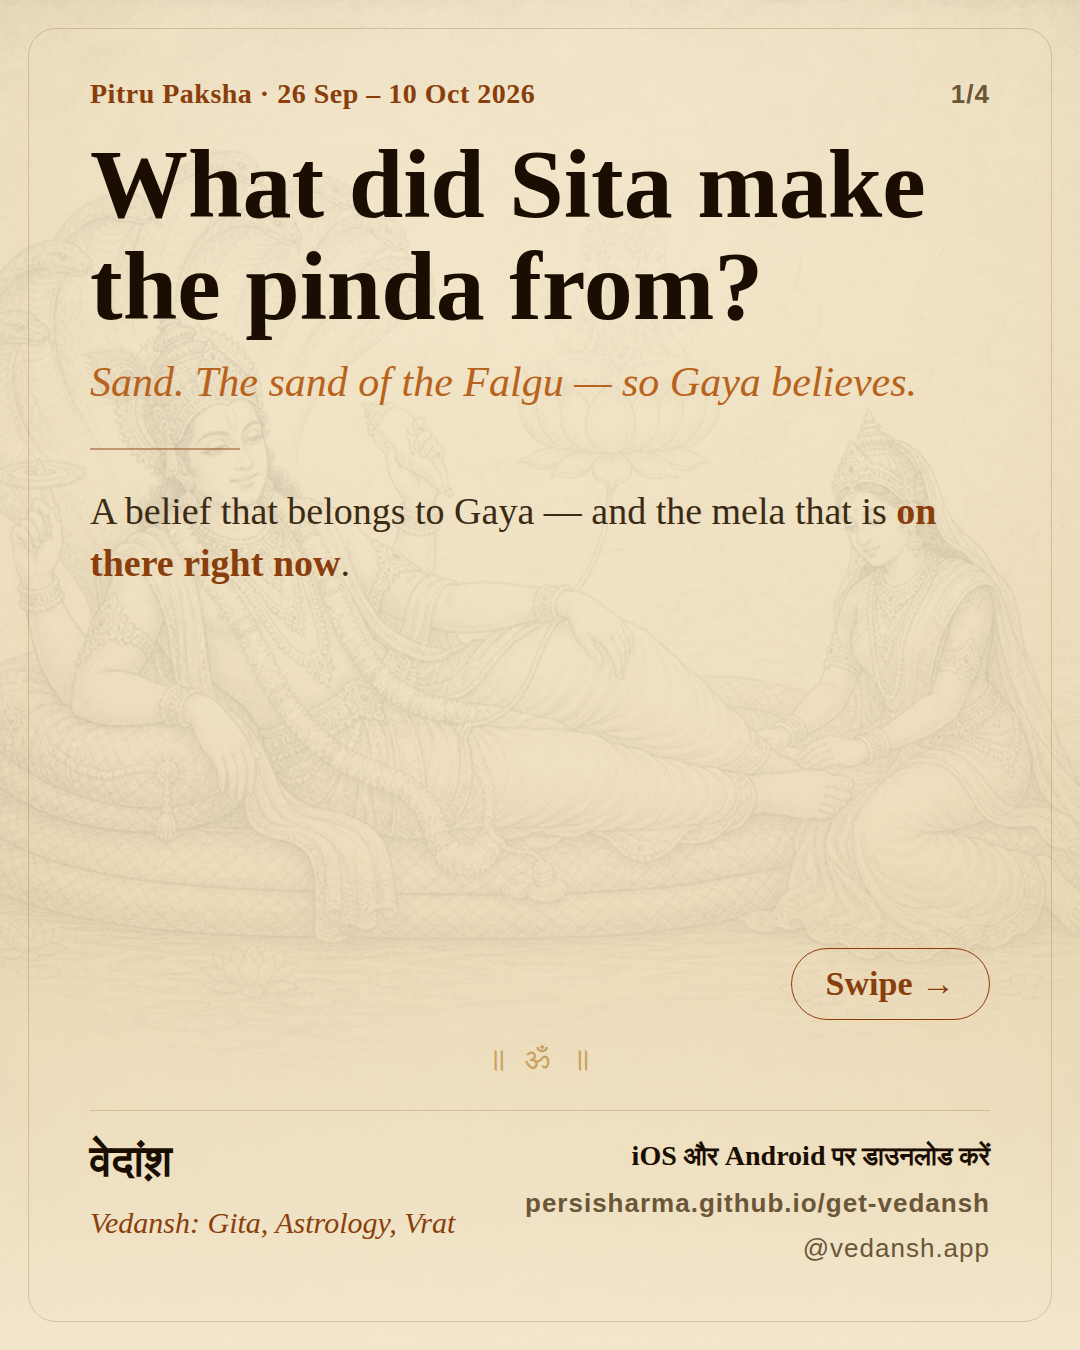
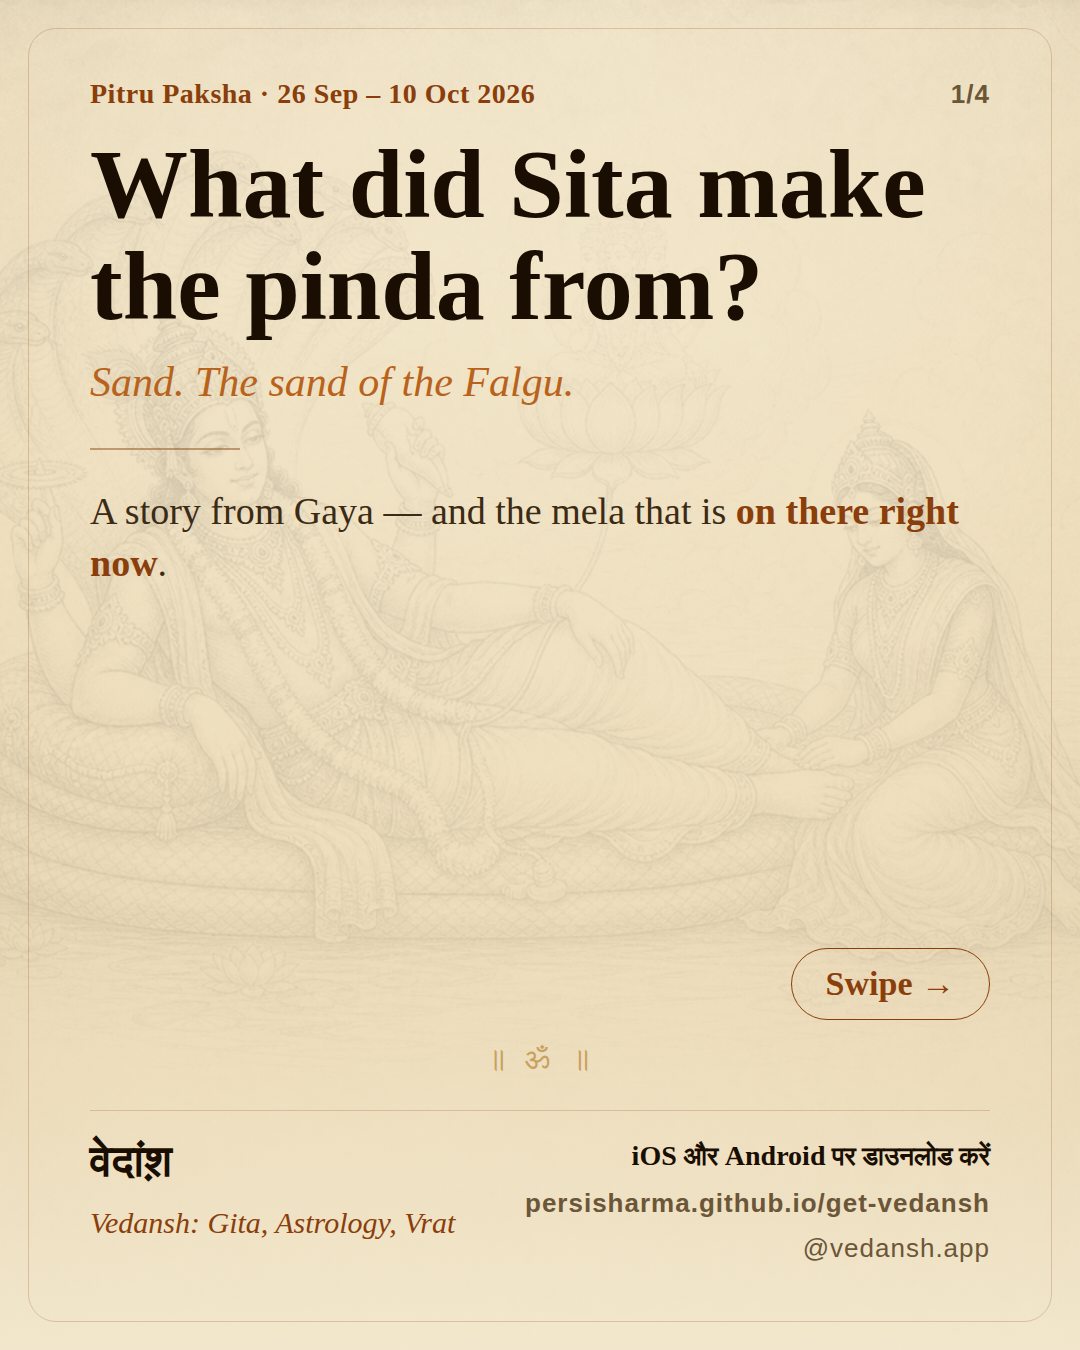
marketing(instagram): Falgu post — tell the Gaya story straight, no Ramayana contradiction
Drop every "not in the Ramayana / मान्यता" aside from the Falgu cards and
caption; the story reads as Gaya's own katha in plain words, with provenance
kept only in the small source line (गया की परम्परा · गया-माहात्म्य).
Simpler vocabulary (श्राद्ध का समय for कुतप काल), one clear lesson line.

Claude-Session: https://claude.ai/code/session_01UWivEE5iQUqCiS2PaVJiY4

Changed region(s): [[0.0917, 0.3733, 0.8861, 0.4356], [0.5806, 0.28, 0.8556, 0.3111]]

diff --git a/marketing/instagram/posts/pitru-falgu-2026.md b/marketing/instagram/posts/pitru-falgu-2026.md
@@ -5,8 +5,9 @@
 - English: `pitru-falgu-2026/pitru-falgu-2026-en-1.png … -en-4.png`
 
 Render: `node ../make-carousel.mjs pitru-falgu-2026` (add `--lang hi|en` for one set).
-**Order:** 1 hook (what did Sita make the pinda from?) · 2 the Gaya belief — Sita's sand pinda,
-Dasharatha's hand accepting it, the witnesses, why the Falgu runs dry (labelled मान्यता / "not in the Ramayana") · 3 Gaya today
+**Order:** 1 hook (what did Sita make the pinda from?) · 2 the Gaya story, told straight — Sita's sand
+pinda, the witnesses, Dasharatha accepting it, why the Falgu runs dry; provenance sits quietly in the
+source line ("गया की परम्परा · गया-माहात्म्य"), no "not in the Ramayana" on the cards · 3 Gaya today
 (Pitru Paksha Mela at Vishnupad: opens Sat 26 Sep Purnima Shraddha · closes Sat 10 Oct Sarva
 Pitru Amavasya) · 4 app CTA.
 **Post window:** any day while the mela is on; strongest 27 Sep – 3 Oct.
@@ -17,13 +18,13 @@ detail page yet), so the CTA sells the primer, tila-tarpana vidhi, tithi and rem
 ## Caption — Hindi
 
 ```
-सीता ने पिण्ड किससे बनाया था? — गया की मान्यता 🪔
+सीता ने पिण्ड किससे बनाया था? — गया की कथा 🪔
 
 बालू से। फल्गु की बालू से।
 
-कथा है कि श्रीराम और लक्ष्मण पिण्डदान की सामग्री लाने गए, और समय बीतता गया। सीता ने फल्गु की बालू का पिण्ड बनाया और फल्गु, गौ, केतकी और अक्षयवट को साक्षी बनाकर दशरथ को अर्पित किया। राम लौटे तो अक्षयवट के सिवा किसी ने साक्षी नहीं दी — इसीलिए, मान्यता है, फल्गु ऊपर सूखी बहती है और अक्षयवट अक्षय है।
+श्रीराम, सीता और लक्ष्मण दशरथ के पिण्डदान के लिए गया आए। राम और लक्ष्मण सामग्री लाने गए, और श्राद्ध का समय निकलने लगा। सीता ने फल्गु की बालू का पिण्ड बनाया — साक्षी बनाए फल्गु, गौ, केतकी और अक्षयवट। दशरथ ने स्वयं हाथ बढ़ाकर उसे स्वीकार किया। राम लौटे तो केवल अक्षयवट ने सच कहा — तभी से, कहते हैं, फल्गु ऊपर सूखी बहती है और अक्षयवट अक्षय है।
 
-यह रामायण में नहीं, गया की स्मृति में है। पर भाव वही: जो पास है, वही अर्पित।
+सीख सीधी है: जो पास है, वही अर्पित। भाव ही पहुँचता है।
 
 और वह मेला आज चल रहा है — पितृपक्ष मेला, विष्णुपद, फल्गु तट, गया।
 • आरम्भ: शनिवार 26 सितम्बर · भाद्रपद पूर्णिमा · पूर्णिमा श्राद्ध
@@ -42,13 +43,13 @@ detail page yet), so the CTA sells the primer, tila-tarpana vidhi, tithi and rem
 ## Caption — English
 
 ```
-What did Sita make the pinda from? — a Gaya belief
+What did Sita make the pinda from? — the Gaya story
 
 Sand. The sand of the Falgu.
 
-The story goes that Rama and Lakshmana went to fetch the materials, and the hour was passing. Sita made a pinda of Falgu sand and offered it to Dasharatha, with the Falgu, a cow, the ketaki and the Akshayavat as witnesses. When Rama returned, only the Akshayavat bore witness — which is why, it is believed, the Falgu runs dry on top and the Akshayavat never withers.
+Rama, Sita and Lakshmana came to Gaya for Dasharatha's pind-daan. The brothers went to fetch the materials, and the hour for shraddha began to slip away. Sita made the pinda from Falgu sand, with the Falgu, a cow, the ketaki and the Akshayavat as witnesses. Dasharatha himself reached out and accepted it. When Rama returned, only the Akshayavat told the truth — since then, they say, the Falgu runs dry on top and the Akshayavat never withers.
 
-This lives in Gaya's memory, not in the Ramayana. But the bhava is the same: what is at hand, that is offered.
+The lesson is simple: what is at hand, that is offered. It is the bhava that reaches.
 
 And that mela is on right now — Pitru Paksha Mela, Vishnupad, on the Falgu, Gaya.
 • Opens: Sat 26 Sep · Bhadrapada Purnima · Purnima Shraddha
@@ -65,7 +66,7 @@ The story is here — the understanding and the vidhi are in Vedansh: Pitru Paks
 
 ## Alt text (Hindi line on the Hindi set, English line on the English set)
 
-1. Hook — "पितृ पक्ष 2026। सीता ने पिण्ड किससे बनाया था? बालू से — ऐसा गया मानता है। पीछे विष्णु-नारायण का रेखाचित्र।" / "Pitru Paksha 2026. What did Sita make the pinda from? Sand — so Gaya believes. Faded Vishnu Narayana sketch behind."
-2. फल्गु की बालू — "गया की मान्यता: सीता का फल्गु की बालू का पिण्ड, फल्गु-गौ-केतकी-अक्षयवट साक्षी; रामायण में नहीं।" / "The sand of the Falgu: Gaya's belief of Sita's sand pinda and its witnesses; not in the Ramayana."
+1. Hook — "पितृ पक्ष 2026। सीता ने पिण्ड किससे बनाया था? बालू से — फल्गु की बालू से। पीछे विष्णु-नारायण का रेखाचित्र।" / "Pitru Paksha 2026. What did Sita make the pinda from? Sand — the sand of the Falgu. Faded Vishnu Narayana sketch behind."
+2. फल्गु की बालू — "गया की कथा: सीता का फल्गु की बालू का पिण्ड, फल्गु-गौ-केतकी-अक्षयवट साक्षी, दशरथ का स्वीकार।" / "The sand of the Falgu: the Gaya story of Sita's sand pinda, its witnesses, and Dasharatha accepting it."
 3. गया, आज — "पितृपक्ष मेला 2026, विष्णुपद, गया: 26 सितम्बर पूर्णिमा श्राद्ध से 10 अक्टूबर सर्वपितृ अमावस्या तक।" / "Pitru Paksha Mela 2026, Vishnupad, Gaya: from Purnima Shraddha 26 Sep to Sarva Pitru Amavasya 10 Oct."
 4. CTA — "Vedansh ऐप: पितृ पक्ष परिचय, तिल-तर्पण विधि, तिथि, पितृ स्मरण reminder। मुफ़्त, ऑफ़लाइन। persisharma.github.io/get-vedansh" / "Vedansh app: Pitru Paksha primer, tila-tarpana vidhi, tithi, Pitru Smaran reminder. Free, offline. persisharma.github.io/get-vedansh"
